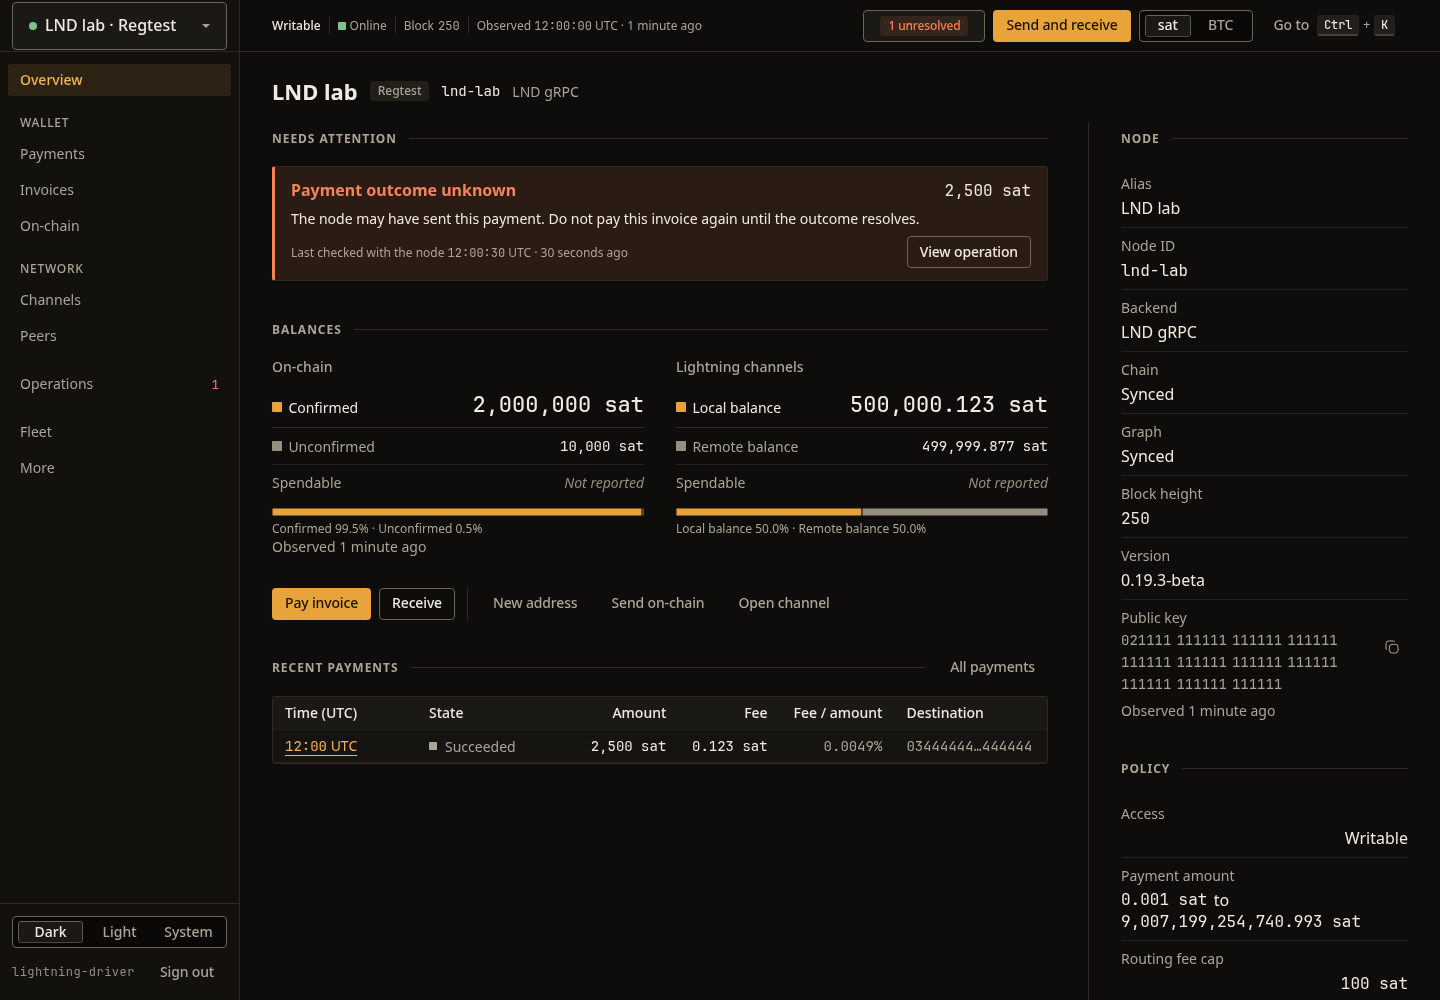
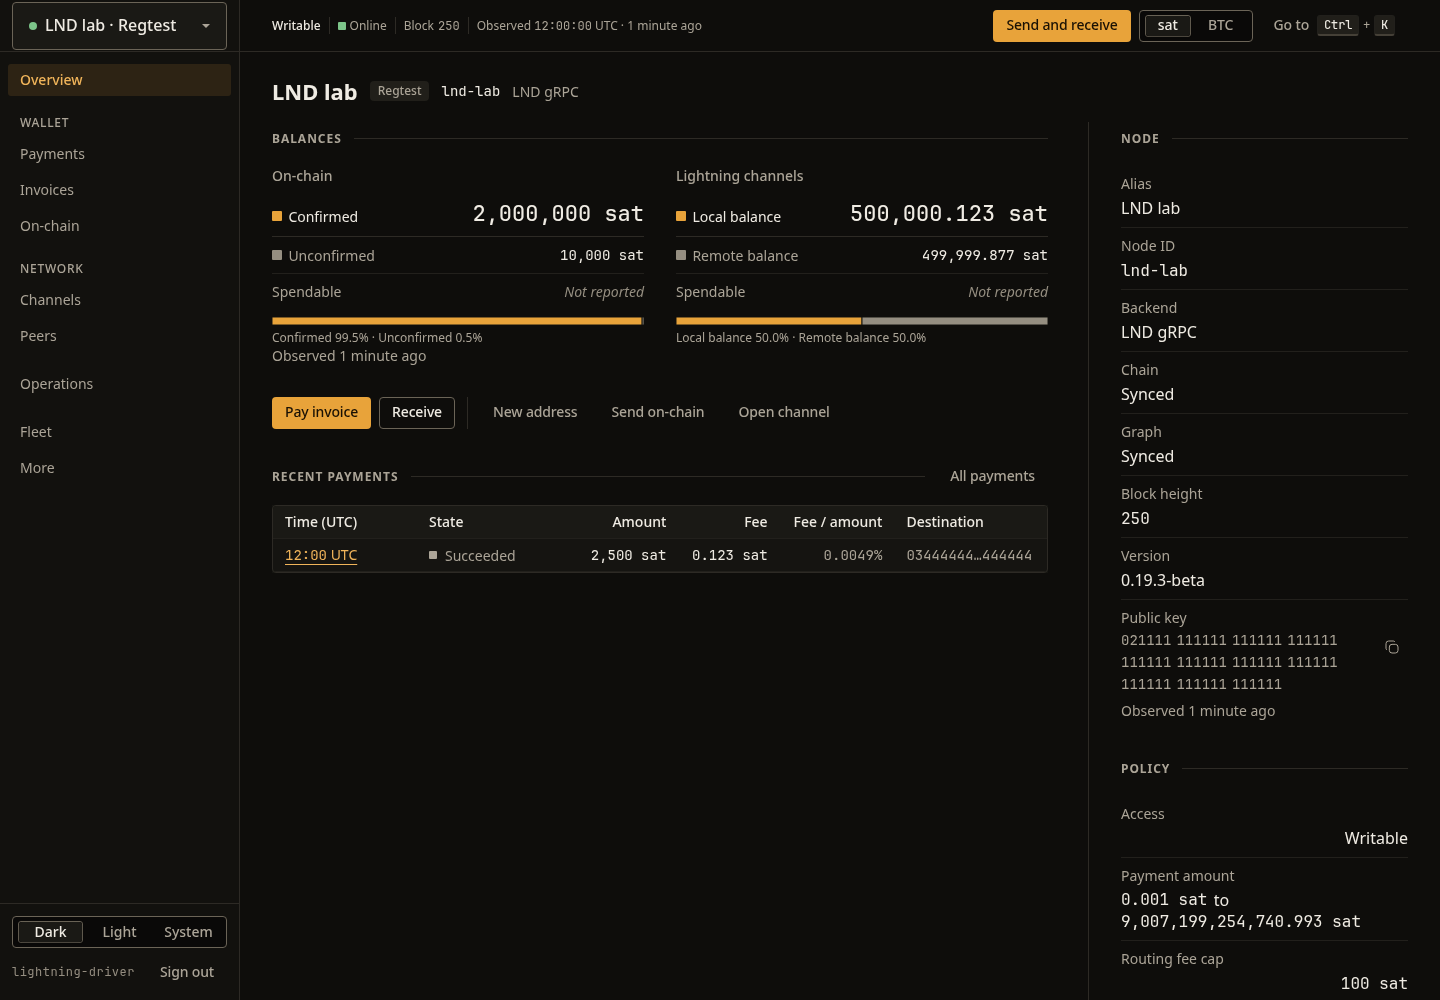
GURI-3944 (Sharper README walkthrough media with no scrollbar flicker): cross-fade screens, stop the inspector scroll, ship the WebP walkthrough

diff --git a/tests/browser/shell.spec.ts b/tests/browser/shell.spec.ts
@@ -279,19 +279,18 @@ test('the palette opens with the keyboard, traps focus and returns it on close',
   await expect(skip).toBeFocused();
 });
 
-/** Records the keyframe properties of every `Element.animate` call (the screen-change motion). */
-async function recordAnimations(page: Page) {
+/** Records every `document.startViewTransition` call, one entry per screen change. */
+async function recordViewTransitions(page: Page) {
   await page.addInitScript(() => {
-    const calls: string[][] = [];
-    Object.assign(window, { __animateCalls: calls });
-    const animate = Element.prototype.animate;
-    Element.prototype.animate = function record(this: Element, keyframes, options) {
-      const frames = Array.isArray(keyframes) ? keyframes : [];
-      calls.push(frames.flatMap((frame) => Object.keys(frame)));
-      return animate.call(this, keyframes, options);
-    };
+    const calls: string[] = [];
+    Object.assign(window, { __viewTransitions: calls });
+    const start = document.startViewTransition.bind(document);
+    document.startViewTransition = ((options?: StartViewTransitionOptions) => {
+      calls.push(window.location.pathname);
+      return start(options);
+    }) as typeof document.startViewTransition;
   });
-  return () => page.evaluate(() => (window as unknown as { __animateCalls: string[][] }).__animateCalls);
+  return () => page.evaluate(() => (window as unknown as { __viewTransitions: string[] }).__viewTransitions);
 }
 
 async function changeScreen(page: Page) {
@@ -301,21 +300,20 @@ async function changeScreen(page: Page) {
 }
 
 for (const reducedMotion of ['reduce', 'no-preference'] as const) {
-  test(`screen change motion with reduced motion ${reducedMotion}`, async ({ page }) => {
+  test(`screen changes cross-fade with reduced motion ${reducedMotion}`, async ({ page }) => {
     await page.emulateMedia({ reducedMotion });
-    const animateCalls = await recordAnimations(page);
+    const viewTransitions = await recordViewTransitions(page);
     await installSyntheticApi(page);
     await page.goto('/nodes/lnd-lab');
     await expect(page.getByRole('heading', { name: 'LND lab' })).toBeVisible();
     await changeScreen(page);
 
-    const calls = await animateCalls();
+    const calls = await viewTransitions();
     if (reducedMotion === 'reduce') {
       expect(calls).toEqual([]);
       return;
     }
-    expect(calls.length).toBeGreaterThan(0);
-    for (const properties of calls) expect(new Set(properties)).toEqual(new Set(['opacity', 'transform']));
+    expect(calls).toEqual(['/nodes/lnd-lab/channels']);
   });
 }
 

diff --git a/src/app/router.tsx b/src/app/router.tsx
@@ -12,6 +12,7 @@ import {
 } from '@tanstack/react-router';
 import { isSessionLoss } from '../api/errors';
 import { nodeQueryOptions } from '../api/node-queries';
+import { REDUCED_MOTION_QUERY } from '../config';
 import type { ChannelState, InvoiceState, OperationKind, OperationListState, PaymentState } from '../api/types';
 import { RouteError } from '../components/RouteError';
 import { RoutePending } from '../components/RoutePending';
@@ -326,6 +327,10 @@ const routeTree = rootRoute.addChildren([
   ]),
 ]);
 
+/** A screen is a shell section: a sidebar route is the node plus one more segment at most. */
+const SCREEN_MAX_DEPTH = 3;
+const sectionDepth = (pathname: string) => pathname.split('/').filter(Boolean).length;
+
 export function createAppRouter(queryClient: QueryClient, history?: RouterHistory) {
   return createRouter({
     routeTree,
@@ -333,6 +338,20 @@ export function createAppRouter(queryClient: QueryClient, history?: RouterHistor
     context: { queryClient },
     defaultPreload: 'intent',
     defaultPreloadStaleTime: 0,
+    // Screen changes cross-fade the outgoing paint into the incoming one inside the View
+    // Transitions API, so the content region never blanks between screens. Sheet routes folded
+    // into a screen (its /new and /review children) keep their own motion and swap instantly, and
+    // reduced motion keeps the straight cut.
+    defaultViewTransition: {
+      types: ({ fromLocation, toLocation, pathChanged }) =>
+        pathChanged &&
+        fromLocation !== undefined &&
+        sectionDepth(fromLocation.pathname) <= SCREEN_MAX_DEPTH &&
+        sectionDepth(toLocation.pathname) <= SCREEN_MAX_DEPTH &&
+        !window.matchMedia(REDUCED_MOTION_QUERY).matches
+          ? []
+          : false,
+    },
     defaultErrorComponent: RouteError,
     defaultPendingComponent: RoutePending,
     scrollRestoration: true,

diff --git a/src/features/shell/ContentRegion.tsx b/src/features/shell/ContentRegion.tsx
@@ -1,32 +1,10 @@
-import { useLayoutEffect, useRef, type ReactNode } from 'react';
-import { REDUCED_MOTION_QUERY } from '../../config';
-
-const DURATION_PROPERTY = '--ui-motion-duration-base';
-const EASING_PROPERTY = '--ui-motion-ease-standard';
-
-const ENTER: Keyframe[] = [
-  { opacity: 0, transform: 'translateY(4px)' },
-  { opacity: 1, transform: 'none' },
-];
+import type { ReactNode } from 'react';
 
 /**
- * The only region that moves on a screen change: opacity and a 4px rise, at the theme's base
- * duration, without remounting the screen. Reduced motion skips it.
+ * The region that holds the current screen. Screen changes are cross-faded by the router's view
+ * transition, so the previous screen stays painted while the next one takes over; this component
+ * only marks the region the shell lays out.
  */
-export function ContentRegion({ screenKey, children }: { screenKey: string; children: ReactNode }) {
-  const ref = useRef<HTMLDivElement>(null);
-
-  useLayoutEffect(() => {
-    const element = ref.current;
-    if (!element || typeof element.animate !== 'function') return;
-    if (window.matchMedia(REDUCED_MOTION_QUERY).matches) return;
-    const style = getComputedStyle(element);
-    const duration = Number.parseFloat(style.getPropertyValue(DURATION_PROPERTY));
-    if (!Number.isFinite(duration)) return;
-    const easing = style.getPropertyValue(EASING_PROPERTY).trim() || 'ease';
-    const animation = element.animate(ENTER, { duration, easing });
-    return () => animation.cancel();
-  }, [screenKey]);
-
-  return <div ref={ref}>{children}</div>;
+export function ContentRegion({ children }: { children: ReactNode }) {
+  return <div>{children}</div>;
 }

diff --git a/tests/browser/synthetic-api.ts b/tests/browser/synthetic-api.ts
@@ -114,6 +114,8 @@ export interface SyntheticOptions {
   appOrigin?: string;
   /** Screenshot runs replace the info fixture's sentinel alias and version with demo values. */
   nodeInfo?: Partial<Fixtures['node_info']['value']>;
+  /** Serves the journal's one unresolved payment and its matching node count. Defaults to true. */
+  unresolvedOperation?: boolean;
 }
 
 /**
@@ -146,8 +148,9 @@ export async function installSyntheticApi(page: Page, options: SyntheticOptions 
     issued.delete(path);
     return challenge && isSignedTemplate(event, challenge.event) ? challenge : null;
   };
-  // Counts the one unresolved operation the journal list serves.
-  const node = { ...fixture('node_lnd'), unresolved_operation_count: '1' };
+  // Counts the one unresolved operation the journal list serves, unless a demo capture asks for a clear journal.
+  const unresolved = options.unresolvedOperation ?? true;
+  const node = { ...fixture('node_lnd'), unresolved_operation_count: unresolved ? '1' : '0' };
   const page$ = (nodeId: string) => ({ node_id: nodeId, network: node.network, observed_at: '2026-10-21T12:00:00Z' });
 
   await page.clock.setFixedTime(FIXTURE_NOW);
@@ -247,7 +250,7 @@ export async function installSyntheticApi(page: Page, options: SyntheticOptions 
     }
     if (sub === 'operations') {
       // One unresolved operation of this node, so the overview has an attention item.
-      return json(route, { ...fixture('operations_page'), ...page$(nodeId), items: [unresolvedOperation()] });
+      return json(route, { ...fixture('operations_page'), ...page$(nodeId), items: unresolved ? [unresolvedOperation()] : [] });
     }
     return route.abort();
   });

diff --git a/src/features/shell/AppShell.tsx b/src/features/shell/AppShell.tsx
@@ -1,6 +1,6 @@
 import { Suspense, lazy } from 'react';
 import { styled } from '@jfrader/ui';
-import { Outlet, useLocation, useSearch } from '@tanstack/react-router';
+import { Outlet, useSearch } from '@tanstack/react-router';
 import { useCachedQueryData } from '../../api/use-cached-query-data';
 import { Wordmark } from '../../components/Wordmark';
 import { OverlayInvokerContext } from '../../components/overlay-invoker-context';
@@ -155,14 +155,13 @@ function NodeMoneySheet() {
 export function AppShell() {
   const desktop = useDesktopShell();
   const palette = usePalette();
-  const pathname = useLocation({ select: (location) => location.pathname });
   const search = useSearch({ strict: false });
   const moneySheet = useOverlayEntry('moneySheet', !!(search.send || search.receive || search.operation));
   const session = useCachedQueryData(sessionQueryOptions.queryKey);
   useSessionExpiry();
   if (!session) return null;
   const content = (
-    <ContentRegion screenKey={pathname}>
+    <ContentRegion>
       <Outlet />
     </ContentRegion>
   );

diff --git a/tests/screenshots/readme.spec.ts b/tests/screenshots/readme.spec.ts
@@ -12,8 +12,11 @@ const NODE_ID = examples.fixtures.node_lnd.value.id;
 const CHANNEL_ID = examples.fixtures.channels_page.value.items[0].id;
 const PAY_REVIEW = `/nodes/${NODE_ID}/operations/${operation('pay_invoice').id}`;
 
-/** The fixtures' sentinel alias and version are test markers; the captures read as demo data. */
-const DEMO: SyntheticOptions = { nodeInfo: { alias: 'LND lab', version: '0.19.3-beta' } };
+/**
+ * The fixtures' sentinel alias and version are test markers; the captures read as demo data.
+ * The journal's unresolved payment is a test input, so the README shows a node with nothing outstanding.
+ */
+const DEMO: SyntheticOptions = { nodeInfo: { alias: 'LND lab', version: '0.19.3-beta' }, unresolvedOperation: false };
 
 const DESKTOP = { width: 1440, height: 1000 };
 const PHONE = { width: 390, height: 844 };

diff --git a/src/components/InspectorLayout.tsx b/src/components/InspectorLayout.tsx
@@ -28,7 +28,14 @@ export function InspectorLayout({ header, list, inspector, inspectorLabel }: Ins
   useLayoutEffect(() => {
     const open = inspector !== null;
     if (open && pending.current) {
-      aside.current?.focus();
+      const element = aside.current;
+      element?.focus({ preventScroll: true });
+      // Stacked layouts put the inspector below the list, so it has to be brought into view;
+      // beside the list its top is already on screen and the page must not move.
+      const list = element?.previousElementSibling;
+      if (element && list && element.getBoundingClientRect().top >= list.getBoundingClientRect().bottom - 1) {
+        element.scrollIntoView({ block: 'start' });
+      }
       pending.current = false;
     } else if (!open && wasOpen.current) {
       if (invoker.current?.isConnected) {

diff --git a/tests/browser/a11y.spec.ts b/tests/browser/a11y.spec.ts
@@ -69,13 +69,12 @@ test.describe('reduced motion', () => {
     expect(await motion()).toEqual({ animate: 0, viewTransitions: 0 });
   });
 
-  test('no preference: the screen change animates and the theme crossfades once', async ({ page }) => {
+  test('no preference: the screen change crossfades and the theme crossfades once', async ({ page }) => {
     await page.emulateMedia({ reducedMotion: 'no-preference' });
     const motion = await recordMotion(page);
     await changeScreenThenTheme(page);
-    const counted = await motion();
-    expect(counted.animate).toBeGreaterThan(0);
-    expect(counted.viewTransitions).toBe(1);
+    // One view transition for the screen change, one for the theme.
+    expect(await motion()).toEqual({ animate: 0, viewTransitions: 2 });
   });
 });
 

diff --git a/tests/browser/nostr.spec.ts b/tests/browser/nostr.spec.ts
@@ -162,6 +162,8 @@ test('desktop More: sidebar keyboard entry, linked key controls and removal ends
   await page.keyboard.press('Enter');
   const confirm = methods.getByRole('button', { name: 'Remove key' });
   await confirm.scrollIntoViewIfNeeded();
+  // A running view transition paints the snapshot over the page, so wait for the screen change to settle.
+  await page.waitForFunction(() => !document.getAnimations().some((animation) => (animation.effect as KeyframeEffect | null)?.pseudoElement?.startsWith('::view-transition')));
   expect(await confirm.evaluate((element) => {
     const box = element.getBoundingClientRect();
     const hit = document.elementFromPoint(box.left + box.width / 2, box.top + box.height / 2);

diff --git a/src/app.css b/src/app.css
@@ -5,3 +5,20 @@ html {
 html[data-theme='light'] {
   color-scheme: light;
 }
+
+/*
+ * Screen changes run as a view transition: the shell cross-fades its outgoing paint into the
+ * incoming screen, so the content region never blanks between routes.
+ */
+::view-transition-old(root),
+::view-transition-new(root) {
+  animation-duration: var(--ui-motion-duration-base, 180ms);
+  animation-timing-function: var(--ui-motion-ease-standard, ease);
+}
+
+@media (prefers-reduced-motion: reduce) {
+  ::view-transition-old(root),
+  ::view-transition-new(root) {
+    animation: none;
+  }
+}

diff --git a/README.md b/README.md
@@ -11,13 +11,13 @@ performs every node action. The browser only talks to `/api/v1` on its own origi
 Sign in with a passkey, or with a Nostr key through a NIP-07 extension. The app is Vite, TanStack
 Router and TanStack Query on [@jfrader/ui](https://ui.jfrader.com) and @jfrader/tokens.
 
-![Node overview, channel inspection and invoice review in Lightning Driver UI](docs/screenshots/walkthrough.gif)
+![Node overview, channel inspection and invoice review in Lightning Driver UI](docs/screenshots/walkthrough.webp)
 
 Demo data: overview, channel details and invoice review. The walkthrough stops before payment confirmation.
 
 ## Screenshots
 
-![Node overview: unresolved operations, on-chain and channel balances, quick actions and node policy](docs/screenshots/overview.png)
+![Node overview: balances, recent payments, quick actions and node policy](docs/screenshots/overview.png)
 
 | Channels and the channel inspector | Reviewing a payment |
 | --- | --- |
